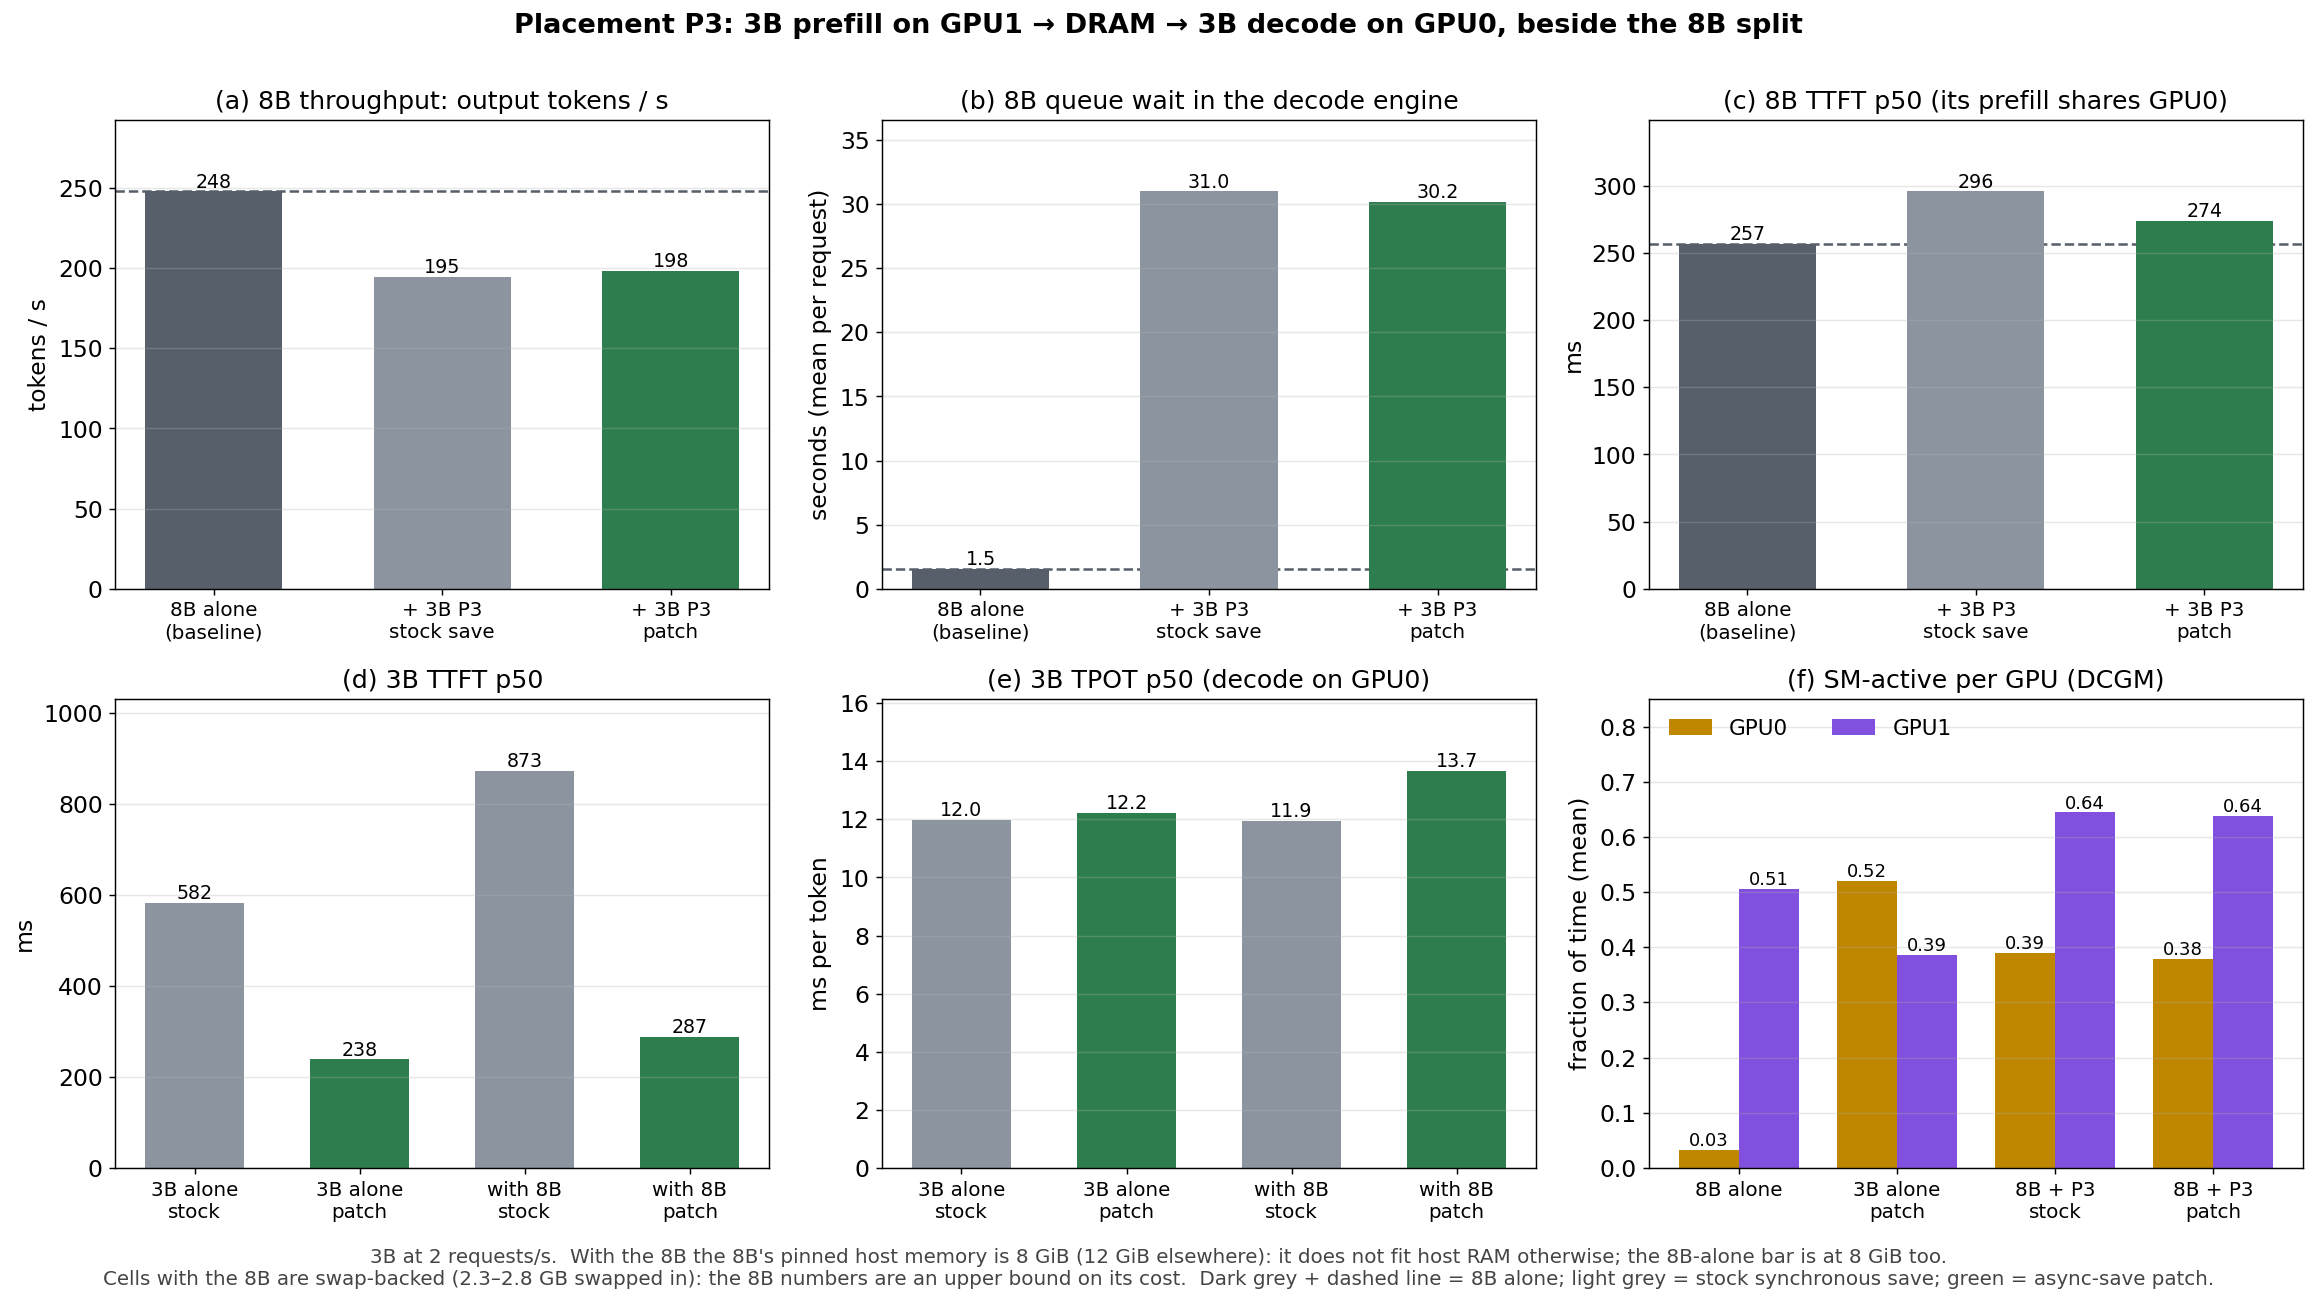
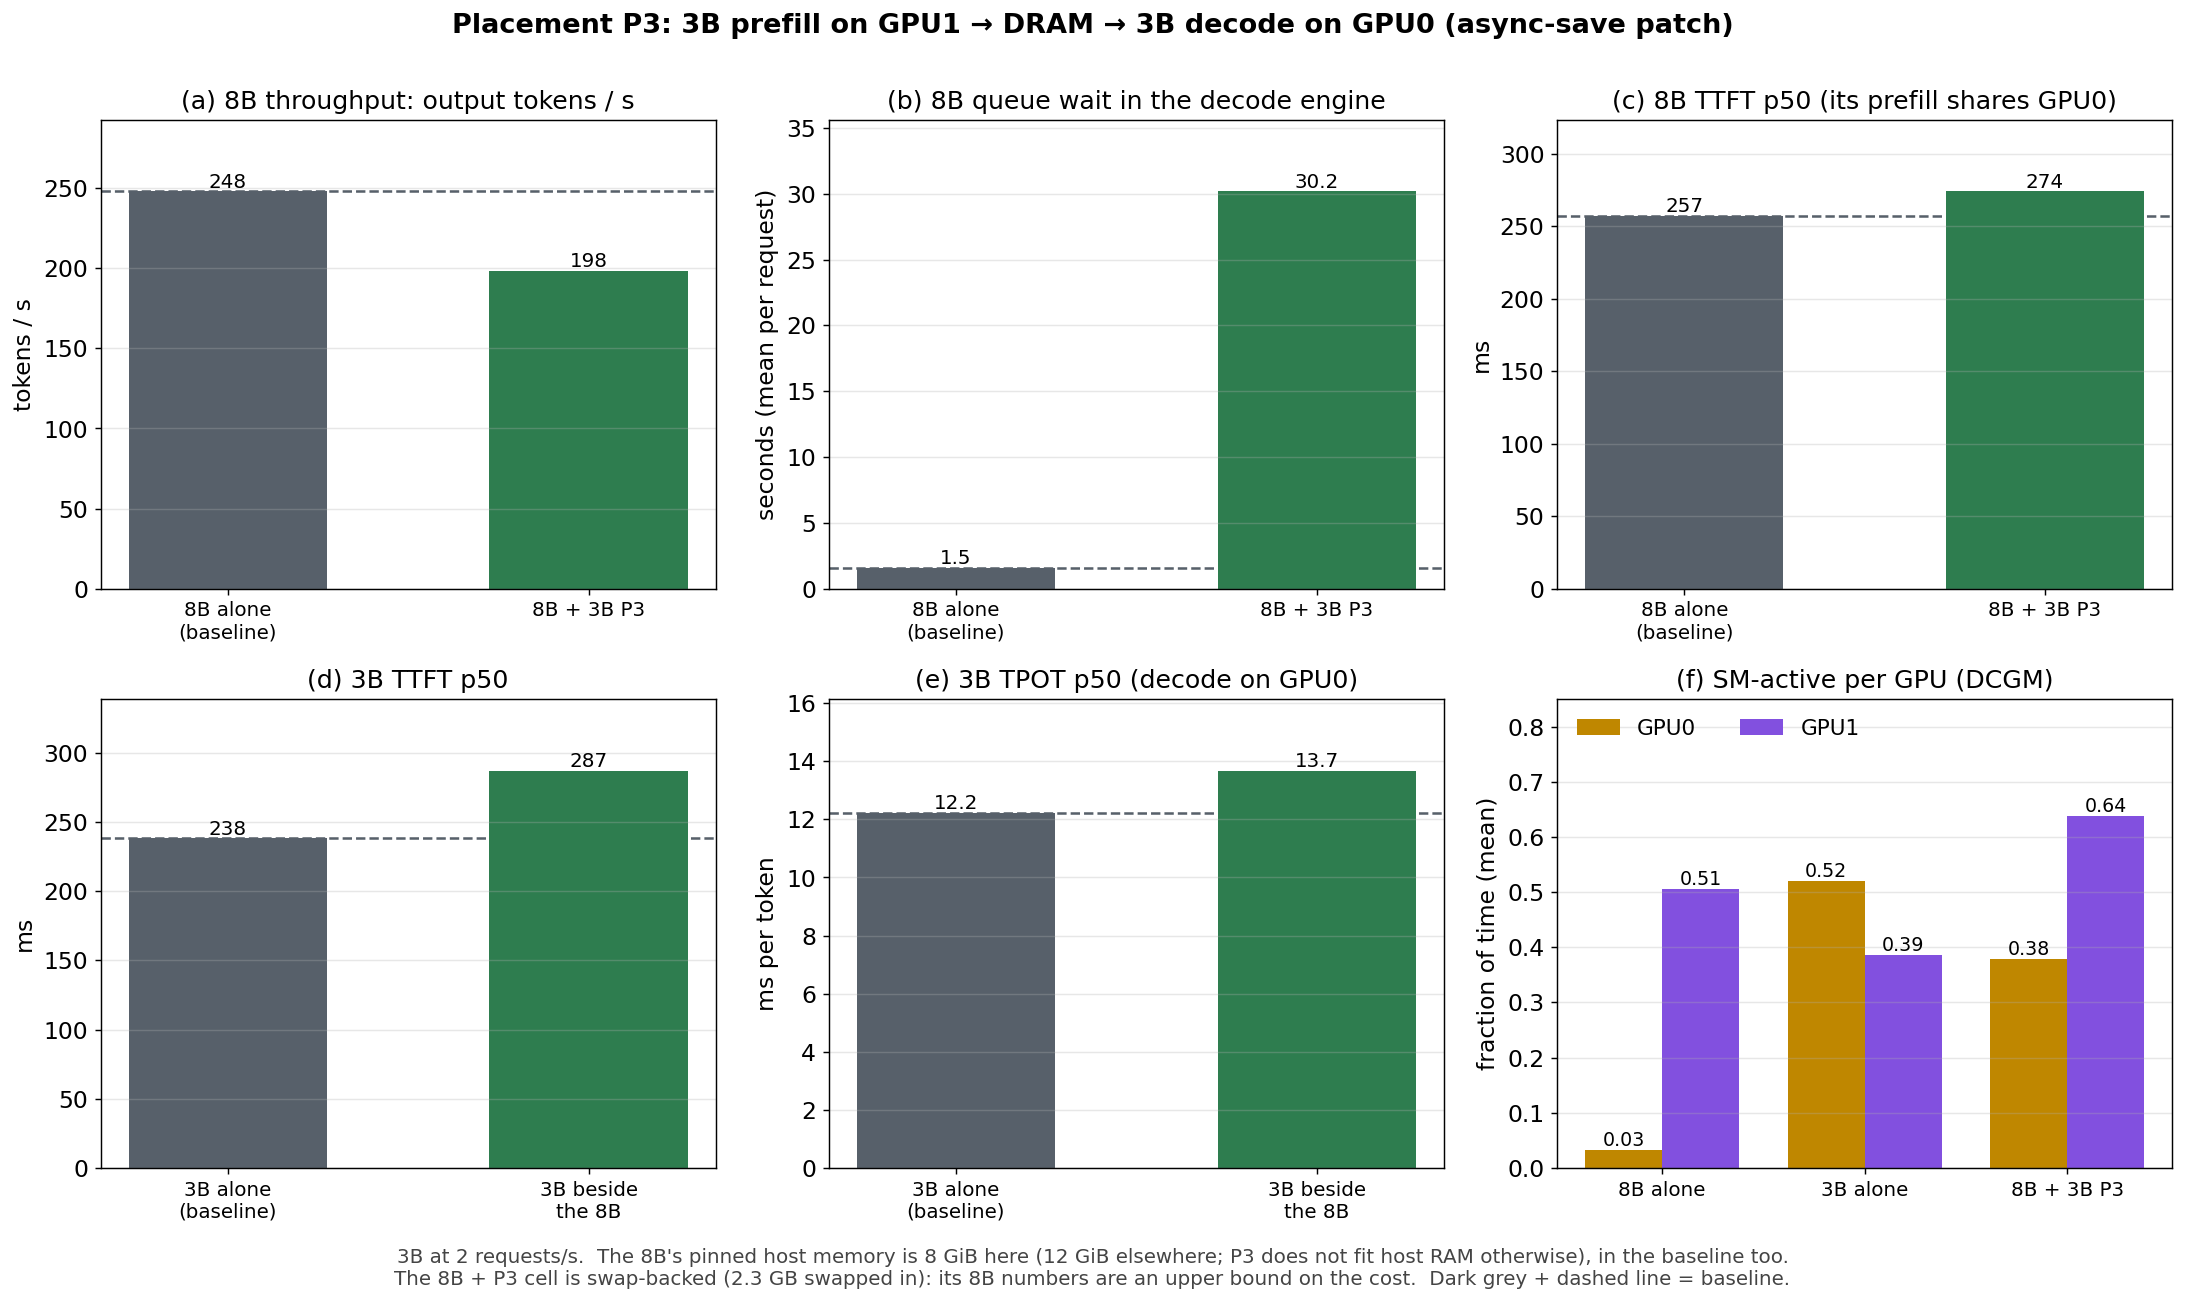
Prefill-coloc: report P3 with the async-save patch only
The stock-save P3 runs re-prefilled part of the prompt on GPU0 for 26-28% of decode
requests, so they do not measure the placement; they remain only in report section 5
(stock vs patch). Section 6 and pfc_p3.png now compare the 8B alone (8 GiB pinned), the
3B alone and 8B + 3B P3, all with the patch. Decision logged.

diff --git a/scripts/plots/plot_pfc_results.py b/scripts/plots/plot_pfc_results.py
@@ -177,17 +177,19 @@ def async_figure():
 
 
 def p3_figure():
-    """P3: 3B prefill on GPU1 -> DRAM -> 3B decode on GPU0. Beside the 8B only with the
-    8B's pinned memory cut to 8 GiB, so its baseline is the 8B alone at 8 GiB."""
-    fig, ax = plt.subplots(2, 3, figsize=(18, 9.5))
+    """P3 with the async-save patch: 3B prefill on GPU1 -> DRAM -> 3B decode on GPU0.
+    The stock-save P3 runs are not shown: 26-28% of their decode requests re-prefilled
+    part of the prompt (pfc_async.png). Beside the 8B only with the 8B's pinned memory
+    cut to 8 GiB, so its baseline is the 8B alone at 8 GiB."""
+    fig, ax = plt.subplots(2, 3, figsize=(17, 9.5))
     ax = ax.ravel()
 
     def panel(a, names, labels, col, colors, fmt, title, ylabel, scale=1.0, base=None):
         v = [f(n, col) * scale for n in names]
-        b = a.bar(range(len(v)), v, 0.6, color=colors)
+        b = a.bar(range(len(v)), v, 0.55, color=colors)
         for rect, y in zip(b, v):
             a.text(rect.get_x() + rect.get_width() / 2, y, fmt(y), ha="center", va="bottom",
-                   fontsize=10.5)
+                   fontsize=11)
         if base is not None:
             a.axhline(v[base], color=C_BASE, ls="--", lw=1.4, zorder=0)
         a.set_xticks(range(len(v)))
@@ -195,9 +197,8 @@ def p3_figure():
         a.set(title=title, ylabel=ylabel, ylim=(0, max(v) * 1.18))
         a.grid(alpha=0.3, axis="y")
 
-    big = ["pfc_base_l1x4", "pfc_p3_l1x4", "pfc_p3_async_l1x4"]
-    big_lab = ["8B alone\n(baseline)", "+ 3B P3\nstock save", "+ 3B P3\npatch"]
-    big_c = [C_BASE, C_SOLO, C_ASYNC]
+    big, big_lab = ["pfc_base_l1x4", "pfc_p3_async_l1x4"], ["8B alone\n(baseline)", "8B + 3B P3"]
+    big_c = [C_BASE, C_ASYNC]
     panel(ax[0], big, big_lab, "big_tok_per_s", big_c, lambda y: f"{y:.0f}",
           "(a) 8B throughput: output tokens / s", "tokens / s", base=0)
     panel(ax[1], big, big_lab, "big_decode_queue_ms", big_c, lambda y: f"{y:.1f}",
@@ -206,23 +207,22 @@ def p3_figure():
     panel(ax[2], big, big_lab, "big_ttft_p50_ms", big_c, lambda y: f"{y:.0f}",
           "(c) 8B TTFT p50 (its prefill shares GPU0)", "ms", base=0)
 
-    sm = ["pfc_s3_v2", "pfc_s3_async_v2", "pfc_p3_l1x4", "pfc_p3_async_l1x4"]
-    sm_lab = ["3B alone\nstock", "3B alone\npatch", "with 8B\nstock", "with 8B\npatch"]
-    sm_c = [C_SOLO, C_ASYNC, C_SOLO, C_ASYNC]
+    sm, sm_lab = ["pfc_s3_async_v2", "pfc_p3_async_l1x4"], ["3B alone\n(baseline)", "3B beside\nthe 8B"]
+    sm_c = [C_BASE, C_ASYNC]
     panel(ax[3], sm, sm_lab, "sm_ttft_p50_ms", sm_c, lambda y: f"{y:.0f}",
-          "(d) 3B TTFT p50", "ms")
+          "(d) 3B TTFT p50", "ms", base=0)
     panel(ax[4], sm, sm_lab, "sm_tpot_p50_ms", sm_c, lambda y: f"{y:.1f}",
-          "(e) 3B TPOT p50 (decode on GPU0)", "ms per token")
+          "(e) 3B TPOT p50 (decode on GPU0)", "ms per token", base=0)
 
-    cells = ["pfc_base_l1x4", "pfc_s3_async_v2", "pfc_p3_l1x4", "pfc_p3_async_l1x4"]
-    lab = ["8B alone", "3B alone\npatch", "8B + P3\nstock", "8B + P3\npatch"]
+    cells = ["pfc_base_l1x4", "pfc_s3_async_v2", "pfc_p3_async_l1x4"]
+    lab = ["8B alone", "3B alone", "8B + 3B P3"]
     xi = np.arange(len(cells))
     for k, (g, c) in enumerate((("gpu0", "#bf8700"), ("gpu1", "#8250df"))):
         v = [f(n, f"{g}_sm_active_mean") for n in cells]
         b = ax[5].bar(xi + (k - 0.5) * 0.38, v, 0.38, color=c, label=g.upper())
         for rect, y in zip(b, v):
             ax[5].text(rect.get_x() + rect.get_width() / 2, y, f"{y:.2f}", ha="center",
-                       va="bottom", fontsize=10)
+                       va="bottom", fontsize=10.5)
     ax[5].set_xticks(xi)
     ax[5].set_xticklabels(lab, fontsize=11)
     ax[5].set(title="(f) SM-active per GPU (DCGM)", ylabel="fraction of time (mean)",
@@ -230,13 +230,13 @@ def p3_figure():
     ax[5].legend(frameon=False, loc="upper left", ncol=2)
     ax[5].grid(alpha=0.3, axis="y")
 
-    fig.suptitle("Placement P3: 3B prefill on GPU1 → DRAM → 3B decode on GPU0, beside the 8B "
-                 "split", fontsize=15, fontweight="bold", y=1.0)
-    fig.text(0.5, -0.03, "3B at 2 requests/s.  With the 8B the 8B's pinned host memory is 8 GiB "
-             "(12 GiB elsewhere): it does not fit host RAM otherwise; the 8B-alone bar is at "
-             "8 GiB too.\nCells with the 8B are swap-backed (2.3–2.8 GB swapped in): the 8B "
-             "numbers are an upper bound on its cost.  Dark grey + dashed line = 8B alone; "
-             "light grey = stock synchronous save; green = async-save patch.", ha="center", fontsize=11, color="#444")
+    fig.suptitle("Placement P3: 3B prefill on GPU1 → DRAM → 3B decode on GPU0 (async-save "
+                 "patch)", fontsize=15, fontweight="bold", y=1.0)
+    fig.text(0.5, -0.03, "3B at 2 requests/s.  The 8B's pinned host memory is 8 GiB here "
+             "(12 GiB elsewhere; P3 does not fit host RAM otherwise), in the baseline too.\n"
+             "The 8B + P3 cell is swap-backed (2.3 GB swapped in): its 8B numbers are an "
+             "upper bound on the cost.  Dark grey + dashed line = baseline.",
+             ha="center", fontsize=11, color="#444")
     fig.tight_layout()
     fig.savefig(FIGS / "pfc_p3.png", dpi=130, bbox_inches="tight")
     plt.close(fig)

diff --git a/reports/report_colocation_prefill.md b/reports/report_colocation_prefill.md
@@ -94,7 +94,7 @@ the 3B prefill. Per-model claims rest on client latencies and per-engine metrics
 | §3 why the 8B saturates | **P1** | 0, 0.5, 1, 2 req/s | yes | — | — |
 | §4 the synchronous save | **P2** | 0.5, 1, 2 req/s | yes | yes | stock |
 | §5 asynchronous save | **P2, P3** | 2 req/s | yes | yes | stock vs patch |
-| §6 the full 3B split | **P3** | 2 req/s | yes (8B pinned memory 8 GiB) | yes | stock vs patch |
+| §6 the full 3B split | **P3** | 2 req/s | yes (8B pinned memory 8 GiB) | yes | patch |
 
 P1 = 3B prefill only, KV dropped · P2 = 3B prefill, KV written to DRAM · P3 = 3B
 prefill → DRAM → 3B decode on GPU0. The 3B prefill is on GPU1 in all three.
@@ -241,29 +241,39 @@ the copy is done, and the scheduler frees the blocks (vLLM's own mechanism).
 
 ## 6. The full 3B split — P3
 
-> **Placement: P3 (prefill on GPU1 → DRAM → decode on GPU0).** 3B at 2 req/s; beside
-> the 8B only with the 8B's pinned memory cut from 12 to 8 GiB.
+> **Placement: P3 (prefill on GPU1 → DRAM → decode on GPU0), async-save patch.** 3B at
+> 2 req/s; beside the 8B only with the 8B's pinned memory cut from 12 to 8 GiB.
+
+All P3 numbers in this section use the patch. With the stock synchronous save, 26–28% of
+P3 decode requests found only part of their KV and re-prefilled the rest on GPU0 (§5), so
+those runs do not measure the placement they are meant to; the patch with the router's
+readiness gate gets 300 of 300 full hits. The stock P3 runs appear only in §5, as the
+before/after comparison.
 
 ![P3](../figures/pfc_p3.png)
 
-*3B at 2 req/s. Top row: the 8B (baseline = the 8B alone, also at 8 GiB pinned). Bottom
-row: the 3B alone and beside the 8B, stock synchronous save vs the async-save patch, and
-SM-active on each GPU. Cells with the 8B are swap-backed.*
+*P3 with the async-save patch, 3B at 2 req/s. Dark grey + dashed line = the 8B alone, at
+the same 8 GiB of pinned memory. Cells with the 8B are swap-backed.*
 
 With the 8B's two pinned L1 pools at 6 GiB each, P3 does not fit host RAM: available
 memory fell to 4 GB 68 s into the window and mem_guard killed the engines (`pfc_p3`).
-With the pools at 4 GiB it runs (`pfc_p3_l1x4`, `pfc_p3_async_l1x4`):
+With the pools at 4 GiB it runs:
 
-| | 8B TTFT p50 | 8B TPOT p50 | 8B tok/s | 3B TTFT p50 | 3B TPOT p50 | 3B tok/s | GPU0 / GPU1 SM-active | swapped in |
-|---|---|---|---|---|---|---|---|---|
-| 8B alone, 8 GiB pinned | 257 ms | 35.7 ms | 247.9 | — | — | — | 0.03 / 0.51 | 0.3 GB |
-| + P3, sync save | 296 ms | 331 ms | 194.5 | 873 ms | 12.0 ms | 270 | 0.39 / 0.64 | 2.8 GB |
-| + P3, async save | 274 ms | 316 ms | 198.2 | 287 ms | 13.7 ms | 271 | 0.38 / 0.64 | 2.3 GB |
+| | 8B TTFT p50 | 8B TPOT p50 | 8B tok/s | 8B decode queue | 3B TTFT p50 | 3B TPOT p50 | 3B tok/s | GPU0 / GPU1 SM-active | swapped in |
+|---|---|---|---|---|---|---|---|---|---|
+| 8B alone, 8 GiB pinned (`pfc_base_l1x4`) | 257 ms | 35.7 ms | 247.9 | 1.5 s | — | — | — | 0.03 / 0.51 | 0.3 GB |
+| 3B alone, P3 (`pfc_s3_async_v2`) | — | — | — | — | 238 ms | 12.2 ms | 271 | 0.52 / 0.39 | 0 |
+| 8B + 3B P3 (`pfc_p3_async_l1x4`) | 274 ms | 316 ms | 198.2 | 30.2 s | 287 ms | 13.7 ms | 271 | 0.38 / 0.64 | 2.3 GB |
 
-- **GPU0 gets work too** (SM-active 0.03 → 0.38), and the 3B decode beside the 8B prefill
-  runs at its solo TPOT (12–14 ms) and full throughput.
+- **Both GPUs get work.** GPU0 SM-active 0.03 → 0.38 (the 3B decode), GPU1 0.51 → 0.64
+  (the 3B prefill).
+- **The 3B is barely affected by the 8B:** TTFT 238 → 287 ms, TPOT 12.2 → 13.7 ms, full
+  throughput.
+- **The 8B saturates as in P1/P2** (198 tok/s, queue 30 s): the cost lands on its decode
+  GPU, as before. Its TTFT rises 257 → 274 ms now that its prefill shares GPU0 with the
+  3B decode.
 - **The smaller pinned pools cost the 8B on their own:** TTFT 176 → 257 ms alone.
-- **These cells are swap-backed** (2–3 GB swapped in during the window, although
+- **These cells are swap-backed** (2.3 GB swapped in during the window, although
   12–16 GB read as available: the kernel swaps anonymous pages and keeps the model files
   in page cache; without root this cannot be changed). The 8B numbers in P3 are an upper
   bound on its cost, not a clean measurement.

diff --git a/DECISIONS_PF_COLOC.md b/DECISIONS_PF_COLOC.md
@@ -239,3 +239,8 @@ after. Study-level predictions are in `PLAN_PF_COLOC.md`. Times are local.
   row and CLAUDE.md layout entry added. **Open:** the 8B was at its knee in every cell
   (prefill-as-neighbour cost not separated from no-headroom cost); P3 is swap-backed;
   most cells n=1; the one unexplained store-port bind failure.
+- **10-17 — Decision (user): P3 is reported with the async-save patch only.** The stock
+  P3 runs re-prefilled part of the prompt on GPU0 for 26–28% of decode requests, so they
+  do not measure the placement; they stay only as the before/after comparison in report
+  §5. Report §6 and `pfc_p3.png` show `pfc_base_l1x4`, `pfc_s3_async_v2`,
+  `pfc_p3_async_l1x4`.
